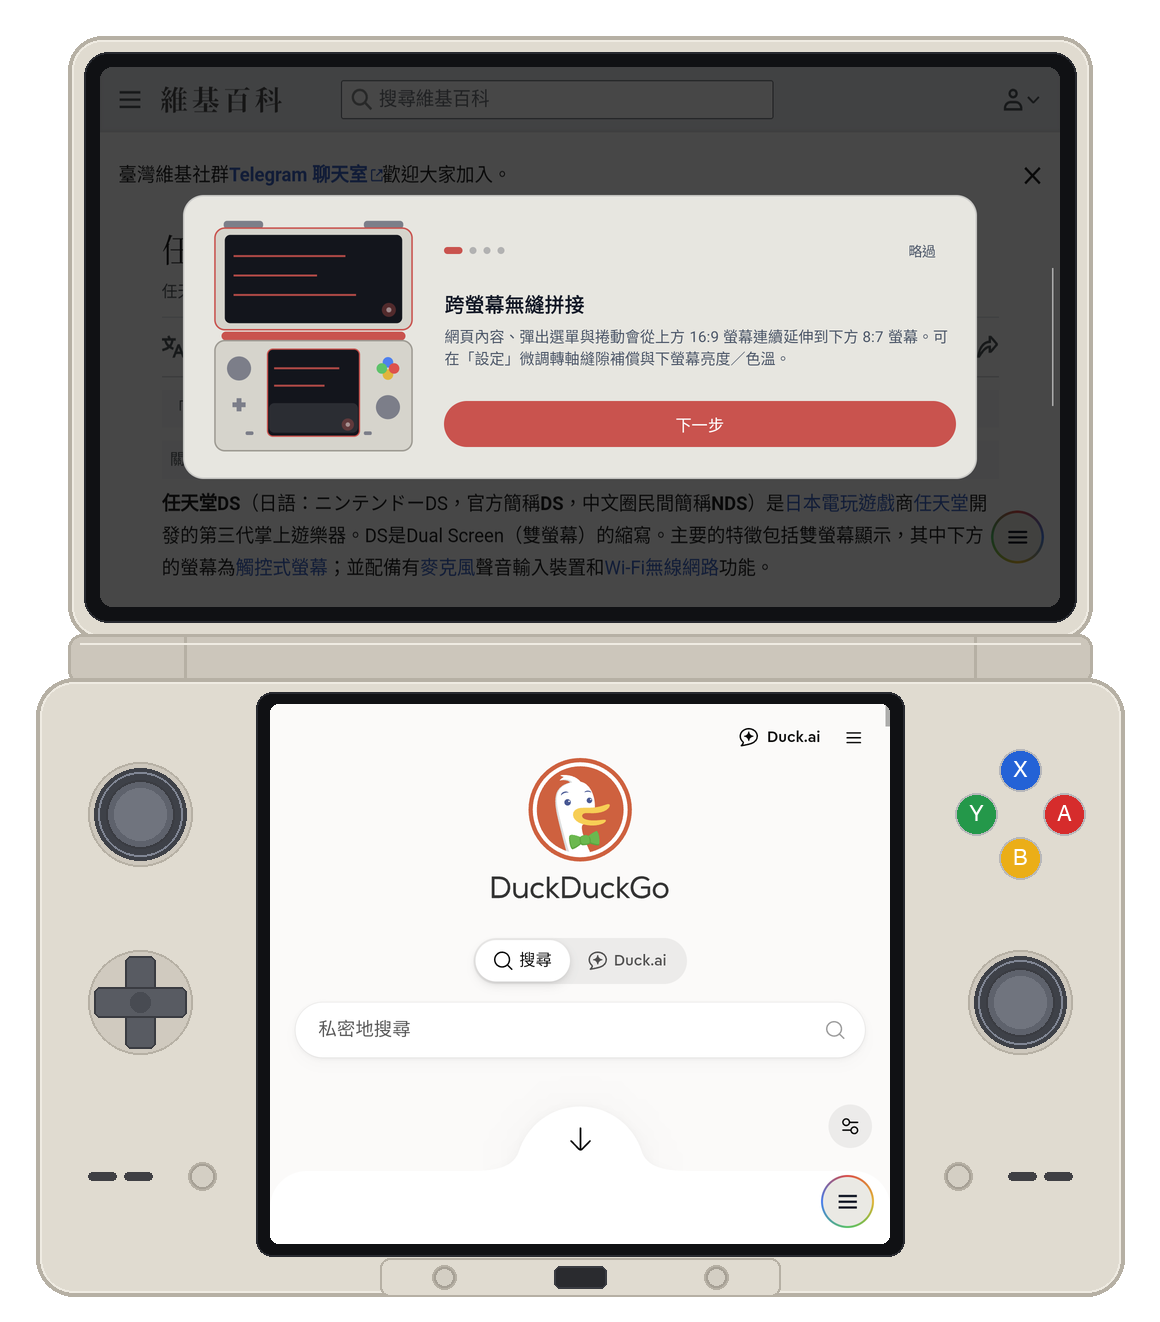
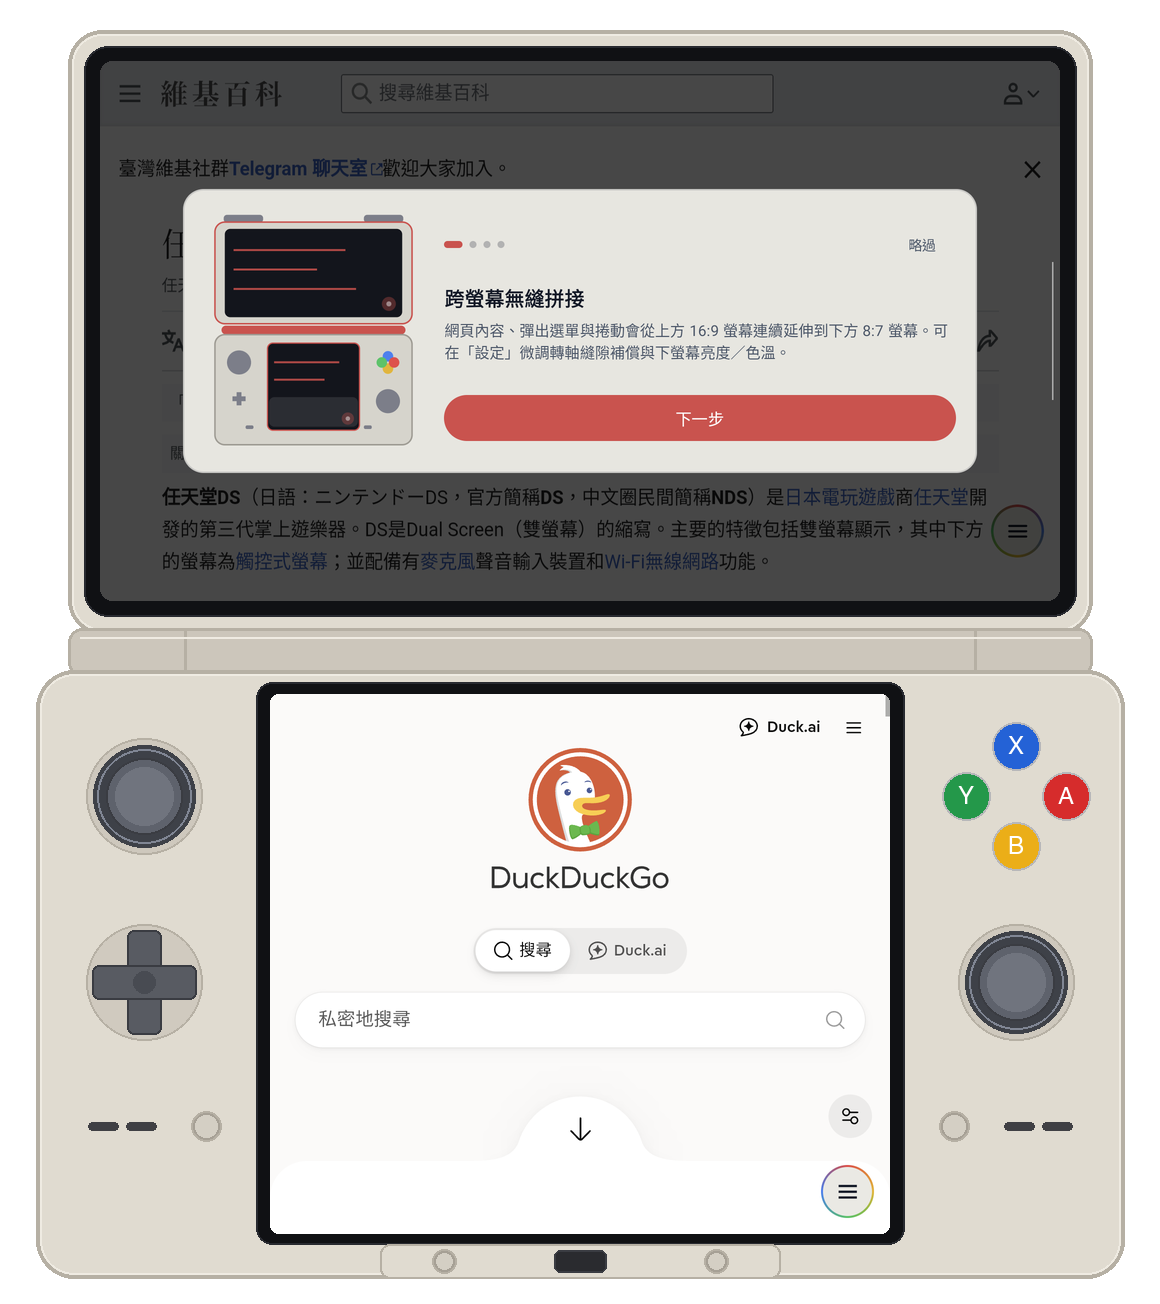
docs: enlarge and tighten Thor controls to match real hardware proportions

diff --git a/README.md b/README.md
@@ -16,7 +16,7 @@
 
 | 雙螢幕獨立模式（Google ＋ DuckDuckGo） | 跨螢幕拼接模式（原生 1080p 無縫延伸） |
 | :---: | :---: |
-| <img src="docs/screenshots/thor_independent.png?v=3" alt="AYN Thor 雙螢幕獨立模式" width="380" /> | <img src="docs/screenshots/thor_span.png?v=3" alt="AYN Thor 跨螢幕拼接模式" width="380" /> |
+| <img src="docs/screenshots/thor_independent.png?v=4" alt="AYN Thor 雙螢幕獨立模式" width="380" /> | <img src="docs/screenshots/thor_span.png?v=4" alt="AYN Thor 跨螢幕拼接模式" width="380" /> |
 
 ### 2. 全螢幕與統一浮動選單
 - 隱藏狀態列與導覽列的純淨全螢幕瀏覽，透過 `LaunchTrampolineActivity` 確保於主顯示器（上螢幕）正確啟動。
@@ -30,7 +30,7 @@
 
 | 統一浮動選單 | 新手教學導覽 |
 | :---: | :---: |
-| <img src="docs/screenshots/thor_menu_touchpad.png?v=3" alt="AYN Thor 統一浮動選單" width="380" /> | <img src="docs/screenshots/thor_tutorial.png?v=3" alt="AYN Thor 新手教學導覽" width="380" /> |
+| <img src="docs/screenshots/thor_menu_touchpad.png?v=4" alt="AYN Thor 統一浮動選單" width="380" /> | <img src="docs/screenshots/thor_tutorial.png?v=4" alt="AYN Thor 新手教學導覽" width="380" /> |
 
 ### 3. AYN Thor 主機配色主題
 內建 5 款對應 AYN Thor 實機外觀的配色主題（預設為 `Rainbow`），皆支援雙螢幕即時同步：
@@ -41,7 +41,7 @@
 - **Custom**（自訂色相滑桿）
 
 <p align="center">
-  <img src="docs/screenshots/thor_theme_settings.png?v=3" alt="AYN Thor 主機配色主題設定" width="380" />
+  <img src="docs/screenshots/thor_theme_settings.png?v=4" alt="AYN Thor 主機配色主題設定" width="380" />
 </p>
 
 ### 4. 手把與下螢幕觸控板
@@ -56,7 +56,7 @@
 
 | 手把快捷操作說明（無觸控板） | 拼接模式＋下螢幕多指觸控板 |
 | :---: | :---: |
-| <img src="docs/screenshots/thor_gamepad_guide.png?v=3" alt="AYN Thor 手把快捷操作說明" width="380" /> | <img src="docs/screenshots/thor_touchpad.png?v=3" alt="AYN Thor 下螢幕多指觸控板" width="380" /> |
+| <img src="docs/screenshots/thor_gamepad_guide.png?v=4" alt="AYN Thor 手把快捷操作說明" width="380" /> | <img src="docs/screenshots/thor_touchpad.png?v=4" alt="AYN Thor 下螢幕多指觸控板" width="380" /> |
 
 ### 5. 隱私與網頁增強
 - 內建廣告網域阻擋（`AdBlocker`）與攔截計數
